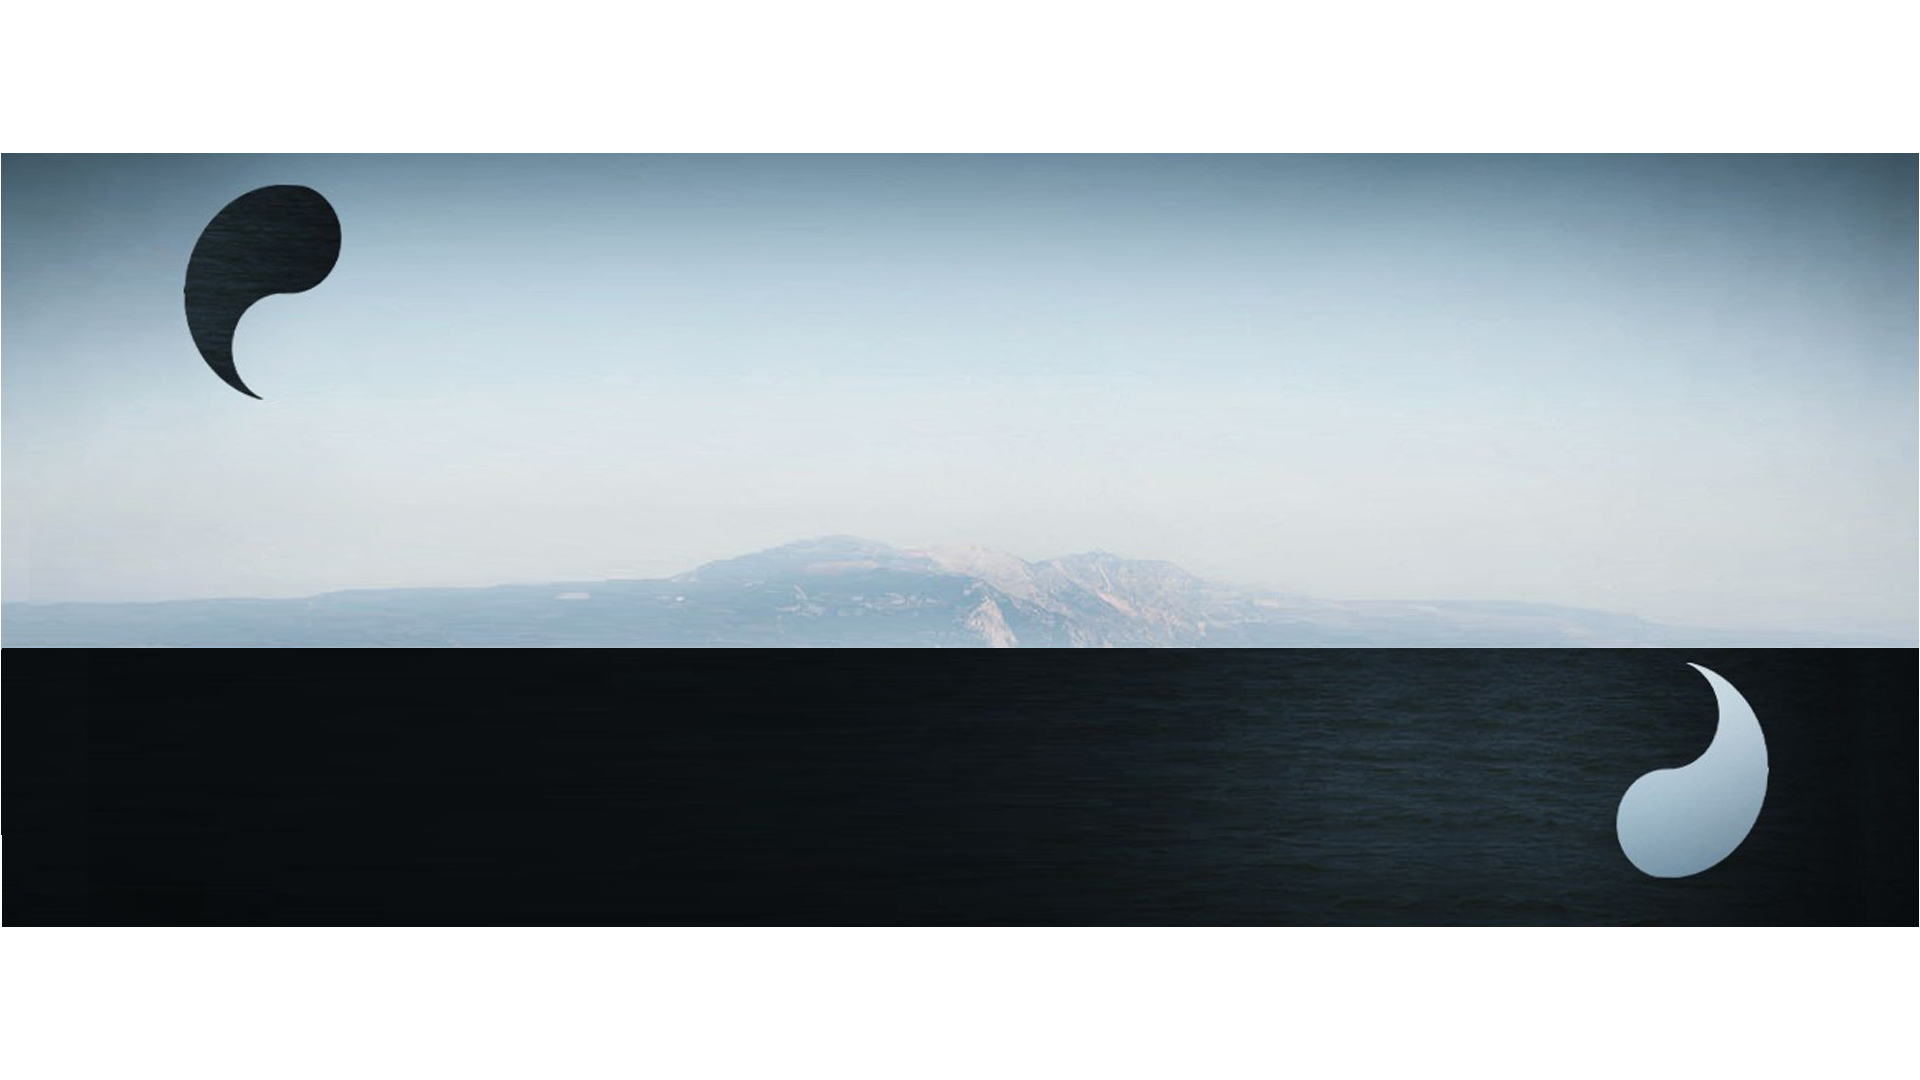
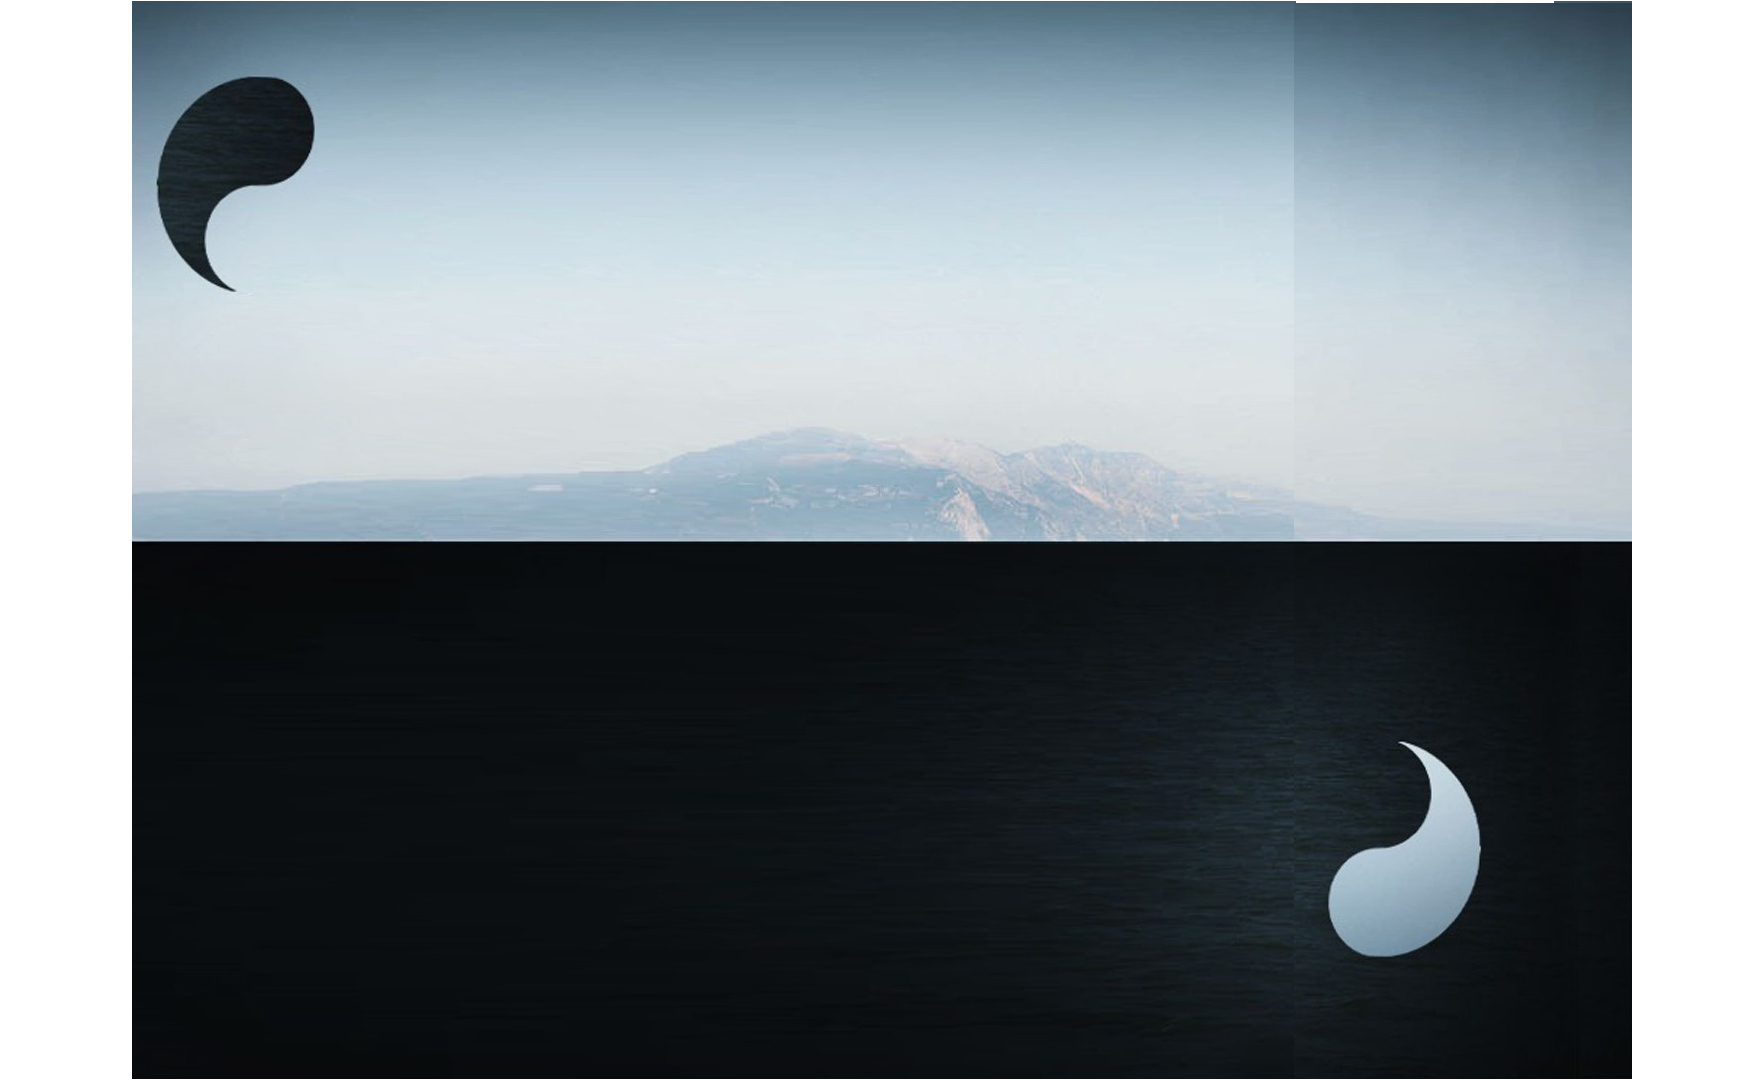
battle won #IRONMAIDEN

diff --git a/app/css/main.less b/app/css/main.less
@@ -74,11 +74,13 @@
 }
 
 #questionYY{
-  background-image: url(../img/testbg2.jpg);
+  background-image: url(../img/testbg.jpg);
+  background-size: cover ;
   margin-top: -72px;
   height: 100vh;
   width: 100vw;
   // margin-left: -15px;
+
 }
 
 #fixWidth{
